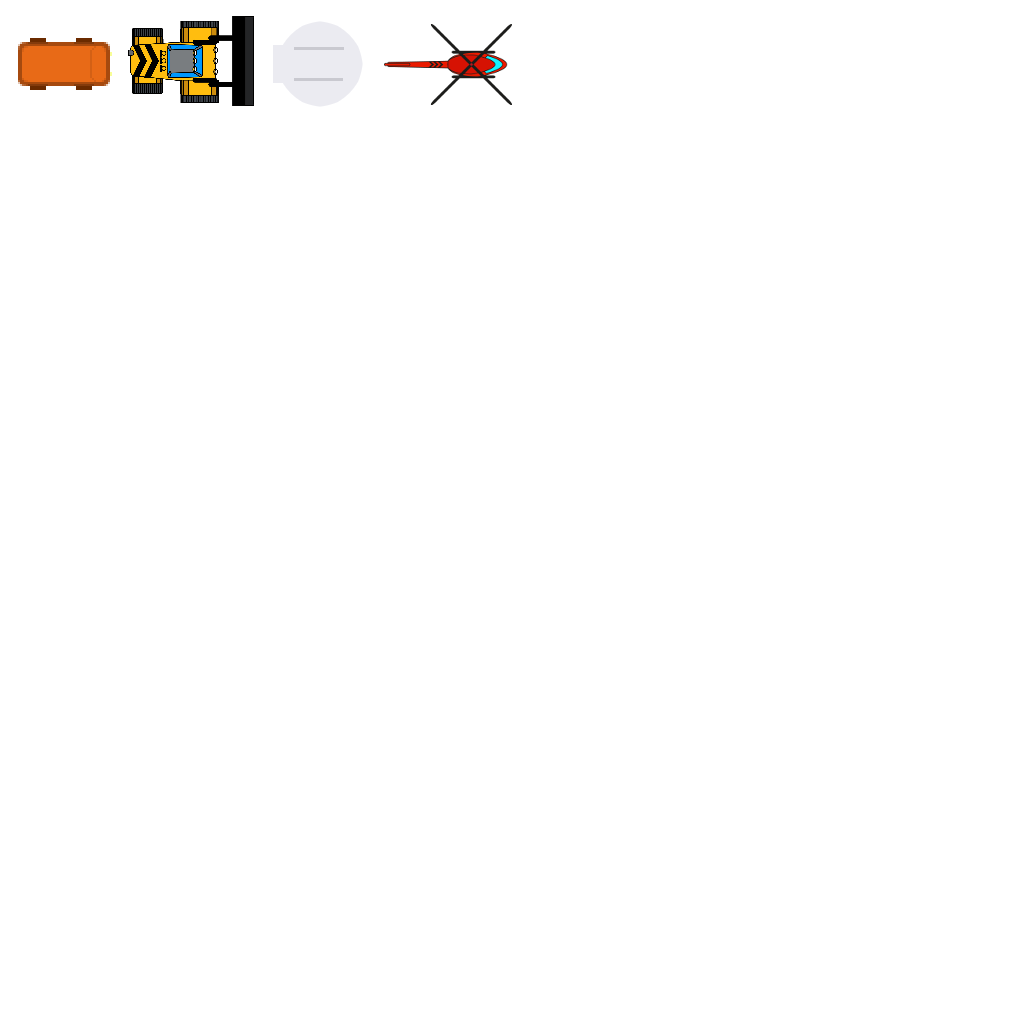
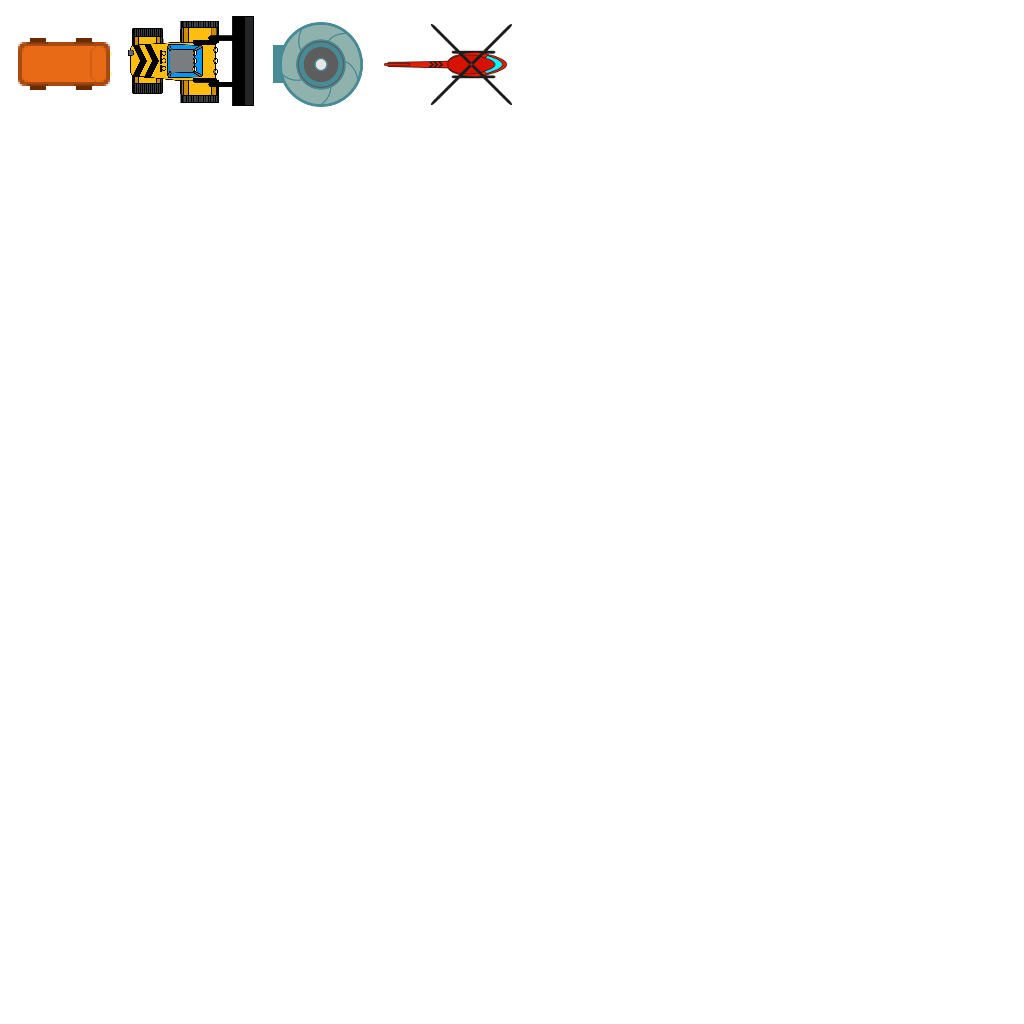
Added new blocks and items: { desk, chest of drawers, garage floor, windows, tall lights, wall lights, notebook, bookstands }

Changed region(s): [[0.25, 0.0, 0.375, 0.125]]

diff --git a/src/core/map/entity/EntityFurniture.h b/src/core/map/entity/EntityFurniture.h
@@ -10,7 +10,7 @@
 
 class EntityFurniture : public EntityMoving {
 public:
-    EntityFurniture(Map *map, double width, double height, int texId);
+    EntityFurniture(Map *map, b2Shape *shape, double width, double height, int texId);
 
     int getTexId() const {
         return texId;
@@ -24,7 +24,7 @@ protected:
 
 class EntityFridge : public EntityFurniture {
 public:
-    EntityFridge(Map *map) : EntityFurniture(map, 1.0, 0.5, 1) {
+    EntityFridge(Map *map) : EntityFurniture(map, new b2PolygonShape, 1.0, 0.5, 1) {
         this->body->GetFixtureList()[0].SetDensity(15.0f);
     }
 
@@ -34,7 +34,7 @@ public:
 
 class EntityWardrobe : public EntityFurniture {
 public:
-    EntityWardrobe(Map *map) : EntityFurniture(map, 1.0, 0.5, 2) {
+    EntityWardrobe(Map *map) : EntityFurniture(map, new b2PolygonShape, 1.0, 0.5, 2) {
         this->body->GetFixtureList()[0].SetDensity(15.0f);
     }
 
@@ -42,23 +42,9 @@ public:
 
 };
 
-class EntityFlowerPot : public EntityMoving {
-public:
-    EntityFlowerPot(Map *map) : EntityMoving(map, 0.85, 0.85) {
-        b2CircleShape shape;
-        shape.m_radius = 0.425;
-        b2FixtureDef fixDef;
-        fixDef.shape = &shape;
-        fixDef.density = 6.0f;
-        fixDef.friction = 0.1f;
-
-        this->body->CreateFixture(&fixDef);
-    }
-};
-
 class EntityToaster : public EntityFurniture {
 public:
-    EntityToaster(Map *map) : EntityFurniture(map, 0.5, 0.375, 23) { }
+    EntityToaster(Map *map) : EntityFurniture(map, new b2PolygonShape, 0.5, 0.375, 23) { }
 
     virtual bool doesCollide(IPositionable *obj) override {
         if (SimpleBlock *b = dynamic_cast<SimpleBlock *>(obj)) {
@@ -74,15 +60,15 @@ public:
 
 class EntityRadio : public EntityFurniture {
 public:
-    EntityRadio(Map *map) : EntityFurniture(map, 0.8, 0.4, 22) { }
+    EntityRadio(Map *map) : EntityFurniture(map, new b2PolygonShape, 0.8, 0.4, 22) { }
 
     virtual ~EntityRadio() override { }
 };
 
 class EntitySink : public EntityFurniture {
 public:
-    EntitySink(Map *map) : EntityFurniture(map, 0.66, 0.8, 21) {
-        this->body->GetFixtureList()[0].SetDensity(100.0f);
+    EntitySink(Map *map) : EntityFurniture(map, new b2PolygonShape, 0.66, 0.8, 21) {
+        this->setBodyType(b2_staticBody);
     }
 
     virtual ~EntitySink() override { }
@@ -90,7 +76,7 @@ public:
 
 class EntityCuttingBoard : public EntityFurniture {
 public:
-    EntityCuttingBoard(Map *map) : EntityFurniture(map, 0.46, 0.66, 20) { }
+    EntityCuttingBoard(Map *map) : EntityFurniture(map, new b2PolygonShape, 0.46, 0.66, 20) { }
 
     virtual bool doesCollide(IPositionable *obj) override {
         if (SimpleBlock *b = dynamic_cast<SimpleBlock *>(obj)) {
@@ -102,6 +88,73 @@ public:
     }
 
     virtual ~EntityCuttingBoard() override { }
+};
+
+class EntityFlowerPot : public EntityFurniture {
+public:
+    EntityFlowerPot(Map *map) : EntityFurniture(map, new b2CircleShape, 0.85, 0.85, 16) { }
+};
+
+class EntityTallLight : public EntityFurniture {
+public:
+    EntityTallLight(Map *map) : EntityFurniture(map, new b2CircleShape, 0.815, 0.815, 24) { }
+};
+
+class EntityWallLight : public EntityFurniture {
+public:
+    EntityWallLight(Map *map) : EntityFurniture(map, new b2PolygonShape, 0.5, 0.5, 17) {
+        this->setBodyType(b2_staticBody);
+    }
+
+    virtual ~EntityWallLight() override { }
+};
+
+class EntityChestHandle : public EntityFurniture {
+public:
+    EntityChestHandle(Map *map) : EntityFurniture(map, new b2CircleShape, 0.18, 0.18, 18) {
+        this->setBodyType(b2_staticBody);
+    }
+
+    virtual ~EntityChestHandle() override { }
+};
+
+class EntityNotebook : public EntityFurniture {
+public:
+    EntityNotebook(Map *map) : EntityFurniture(map, new b2PolygonShape, 0.46, 0.66, 19) { }
+
+    virtual bool doesCollide(IPositionable *obj) override {
+        if (SimpleBlock *b = dynamic_cast<SimpleBlock *>(obj)) {
+            if (b->getTexPos() == 37) {
+                return false;
+            }
+        }
+        return Entity::doesCollide(obj);
+    }
+
+    virtual ~EntityNotebook() override { }
+};
+
+class EntityCupboardTop: public EntityFurniture {
+public:
+    EntityCupboardTop(Map *map) : EntityFurniture(map, new b2PolygonShape, 0.85, 1.0, 32) { }
+
+    virtual ~EntityCupboardTop() override { }
+};
+
+class EntityCupboardBottom: public EntityFurniture {
+public:
+    EntityCupboardBottom(Map *map) : EntityFurniture(map, new b2PolygonShape, 0.85, 1.0, 40) { }
+
+    virtual ~EntityCupboardBottom() override { }
+};
+
+class EntityToiletPaper: public EntityFurniture {
+public:
+    EntityToiletPaper(Map *map) : EntityFurniture(map, new b2PolygonShape, 0.3125, 0.625, 7) {
+        this->setBodyType(b2_staticBody);
+    }
+
+    virtual ~EntityToiletPaper() override { }
 };
 
 #endif //C003_ENTITYFURNITURE_H

diff --git a/src/core/map/TiledTxtMapLoader.h b/src/core/map/TiledTxtMapLoader.h
@@ -162,9 +162,29 @@ TiledTxtMapLoader::TiledTxtMapLoader(const std::string &fileName) {
                     case 20:
                         sshape = new EntityCuttingBoard(this->map);
                         break;
+                    case 21:
+                        sshape = new EntityTallLight(this->map);
+                        break;
+                    case 22:
+                        sshape = new EntityWallLight(this->map);
+                        break;
+                    case 23:
+                        sshape = new EntityChestHandle(this->map);
+                        break;
+                    case 24:
+                        sshape = new EntityNotebook(this->map);
+                        break;
+                    case 25:
+                        sshape = new EntityCupboardTop(this->map);
+                        break;
+                    case 26:
+                        sshape = new EntityCupboardBottom(this->map);
+                        break;
+                    case 27:
+                        sshape = new EntityToiletPaper(this->map);
+                        break;
                     default:
                         break;
-
                 }
                 sshape->setX(atof(blockRow.at(i).c_str()));
                 i++;

diff --git a/src/core/map/Map.cpp b/src/core/map/Map.cpp
@@ -88,6 +88,13 @@ void Map::saveEntities() {
             else if (EntityRadio *p = dynamic_cast<EntityRadio *>(e)) id = 18;
             else if (EntitySink *p = dynamic_cast<EntitySink *>(e)) id = 19;
             else if (EntityCuttingBoard *p = dynamic_cast<EntityCuttingBoard *>(e)) id = 20;
+            else if (EntityTallLight *p = dynamic_cast<EntityTallLight *>(e)) id = 21;
+            else if (EntityWallLight *p = dynamic_cast<EntityWallLight *>(e)) id = 22;
+            else if (EntityChestHandle *p = dynamic_cast<EntityChestHandle *>(e)) id = 23;
+            else if (EntityNotebook *p = dynamic_cast<EntityNotebook *>(e)) id = 24;
+            else if (EntityCupboardTop *p = dynamic_cast<EntityCupboardTop *>(e)) id = 25;
+            else if (EntityCupboardBottom *p = dynamic_cast<EntityCupboardBottom *>(e)) id = 26;
+            else if (EntityToiletPaper *p = dynamic_cast<EntityToiletPaper *>(e)) id = 27;
             else continue;
             myfile << id << "," << e->getX() << "," << e->getY() << "," << e->getAngle();
             if (i != this->getEntities().size() - 1) {

diff --git a/src/core/map/entity/EntityFurniture.cpp b/src/core/map/entity/EntityFurniture.cpp
@@ -4,13 +4,18 @@
 
 #include "EntityFurniture.h"
 
-EntityFurniture::EntityFurniture(Map *map, double width, double height, int texId) : EntityMoving(map, width, height), texId(texId) {
-    b2PolygonShape shape;
-    shape.SetAsBox(this->width / 2, this->height / 2);
+EntityFurniture::EntityFurniture(Map *map, b2Shape *shape, double width, double height, int texId) : EntityMoving(map, width, height), texId(texId) {
+    if (b2PolygonShape *p = dynamic_cast<b2PolygonShape *>(shape)) {
+        p->SetAsBox(this->width / 2, this->height / 2);
+    } else if (b2CircleShape *c = dynamic_cast<b2CircleShape *>(shape)) {
+        c->m_radius = width / 2;
+    }
+
     b2FixtureDef fixDef;
-    fixDef.shape = &shape;
+    fixDef.shape = shape;
     fixDef.density = 6.0f;
     fixDef.friction = 0.1f;
 
     this->body->CreateFixture(&fixDef);
+    delete shape;
 }
